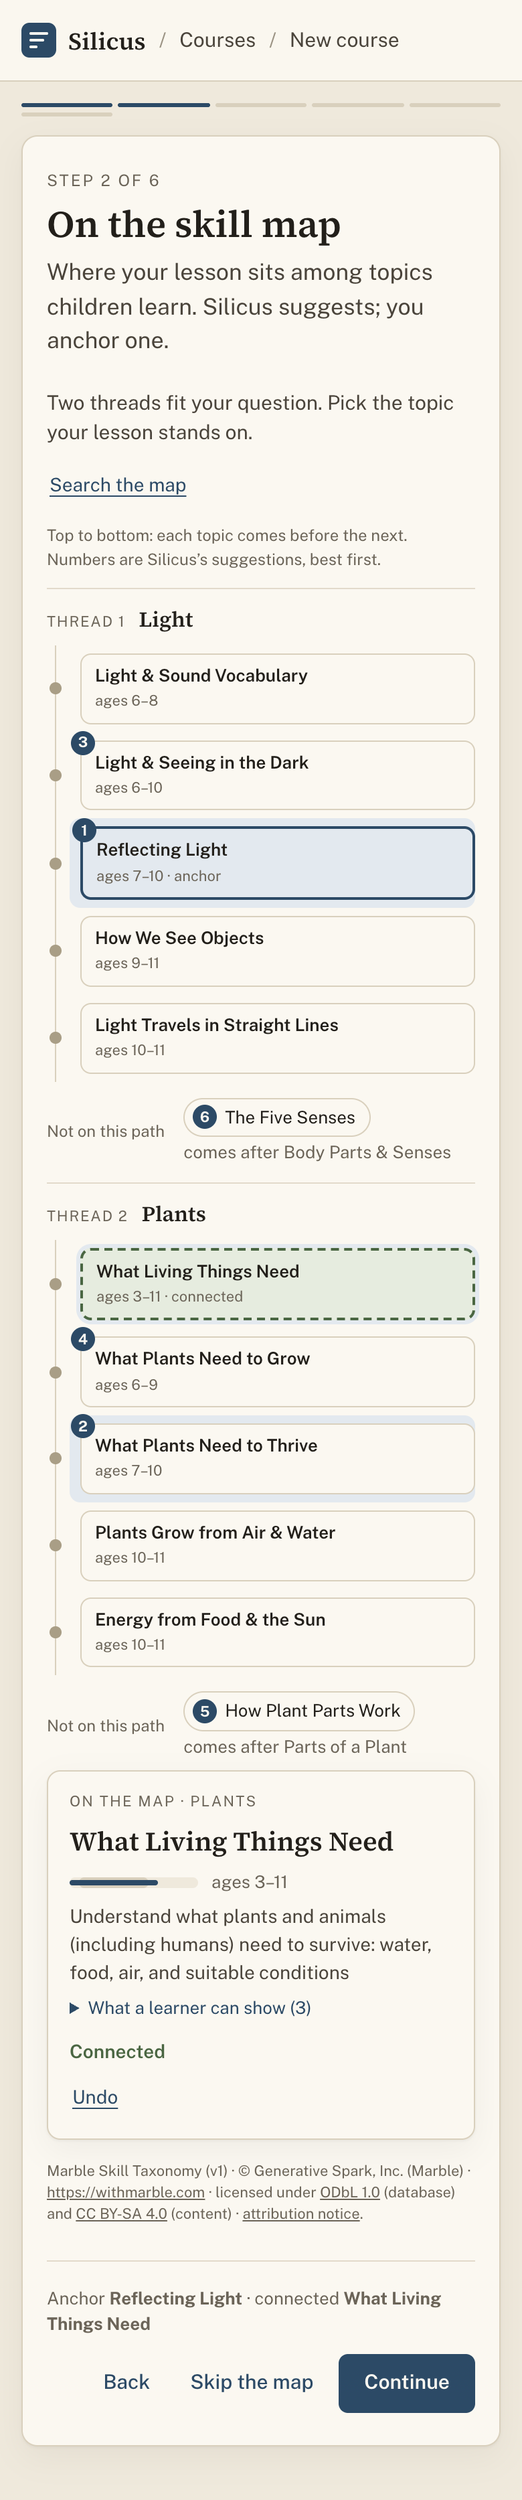
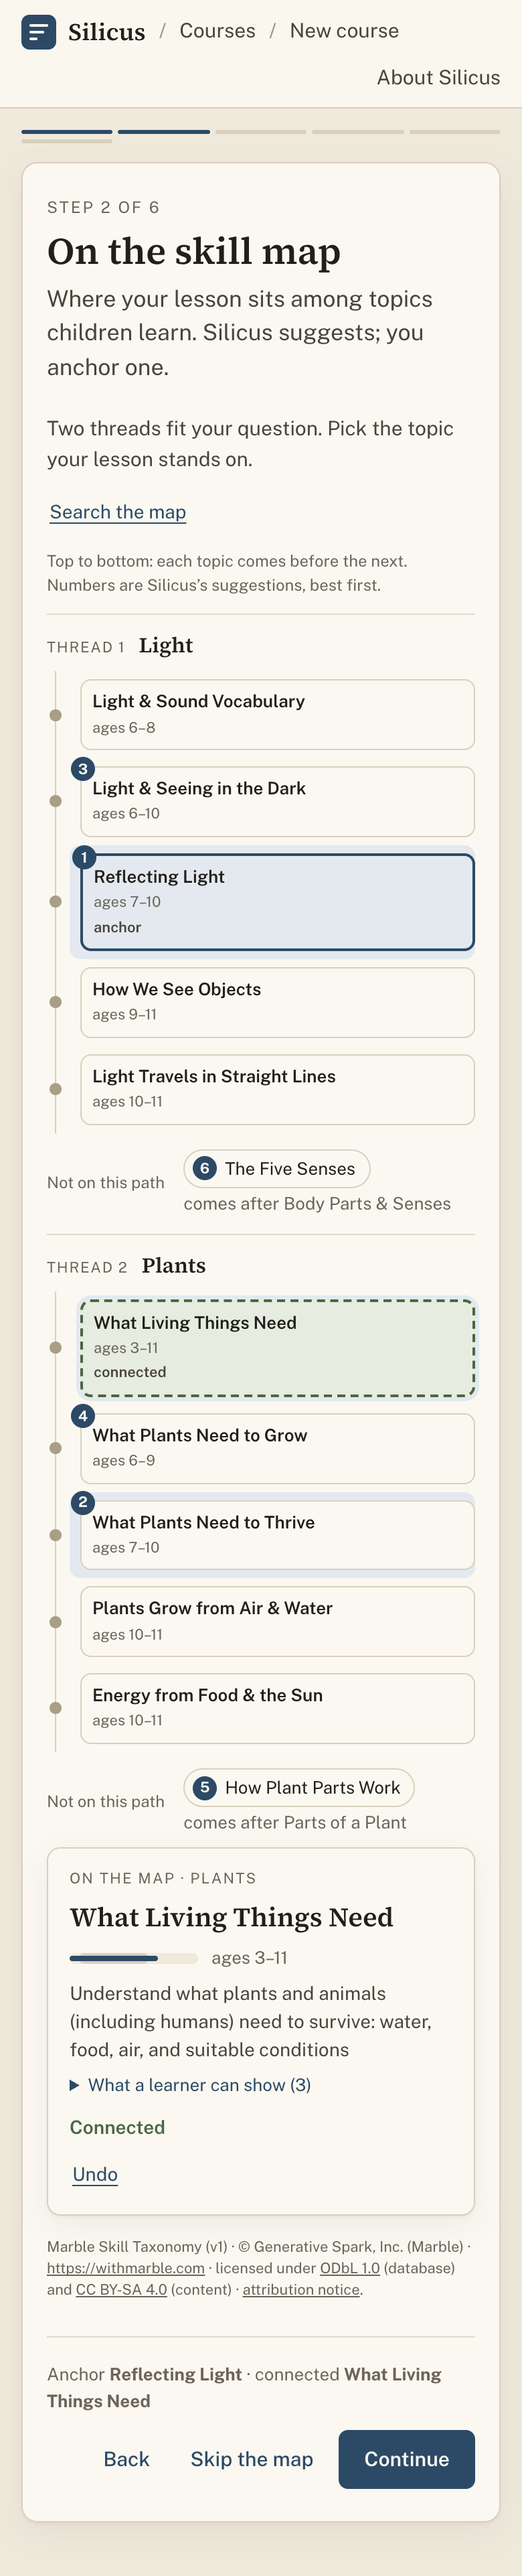
wip(K4): C6 map step: page 1120 px on step 2 and 8 px node padding so two-word Marble names stay on one line (text-wrap: balance kept); node state (anchor/connected) on its own line; non-breaking ' · ' joins (spine: title line, then 'Ages 4–10 · 45 min' unbreakable; footer '· connected'); skip-arc k

diff --git a/frontend/src/studio/NewCourseWizard.tsx b/frontend/src/studio/NewCourseWizard.tsx
@@ -70,6 +70,14 @@ export function briefAnswers(a: WizardAnswers): Record<string, string> {
   return out;
 }
 
+
+/** K4 (C6): a separator that never starts or ends a line: non-breaking spaces on both sides. */
+const SEP = "\u00a0·\u00a0";
+/** Keep a short part on one line (its spaces become non-breaking). */
+const glue = (s: string) => s.replace(/ /g, "\u00a0").replace(/–/g, "\u2060–\u2060");
+/** Join parts with SEP, dropping empty ones. */
+const keepJoin = (parts: string[]) => parts.filter(Boolean).join(SEP);
+
 export function NewCourseWizard() {
   const ai = useAiStatus();
   const [step, setStep] = useState<StepId | null>(null);
@@ -197,10 +205,12 @@ export function NewCourseWizard() {
     </nav>
   );
   function noteFor(id: StepId): string {
-    if (id === "course") return [a.title.trim(), aud.ages ? `Ages ${agesText(aud.ages).replace(/^ages /i, "")}` : "", `${lessonMinutes} min`].filter(Boolean).join(" · ");
+    // K4 (C6): no separator is left alone at a line break. The title is its own line; ages and length are one
+    // unbreakable line under it (non-breaking joins; .spineNote keeps the "\n").
+    if (id === "course") return [a.title.trim(), keepJoin([aud.ages ? glue(`Ages ${agesText(aud.ages).replace(/^ages /i, "")}`) : "", glue(`${lessonMinutes} min`)])].filter(Boolean).join("\n");
     if (id === "map") return mapChoice.skipped ? "Skipped" : anchor ? `${anchor.name}${mapChoice.connected ? ` + ${mapChoice.connected.name}` : ""}` : "";
     if (id === "sources") return count ? plural(count, "source") : "None yet";
-    if (id === "objectives") return [wrote ? plural(a.outcomes.split("\n").filter((l) => l.trim()).length, "of yours", "of yours") : null, a.fromSources && sourcesIn ? "Silicus proposes" : null].filter(Boolean).join(" · ");
+    if (id === "objectives") return [wrote ? plural(a.outcomes.split("\n").filter((l) => l.trim()).length, "of yours", "of yours") : null, a.fromSources && sourcesIn ? "Silicus proposes" : null].filter((x): x is string => !!x).map(glue).join(SEP);
     if (id === "ai") return ai.diagnosis.label;
     return "";
   }
@@ -306,7 +316,7 @@ export function NewCourseWizard() {
       </form>
     );
   } else if (step === "map" && aud.ages) {
-    const note = anchor ? <>Anchor <strong>{anchor.name}</strong>{mapChoice.connected ? <> · connected <strong>{mapChoice.connected.name}</strong></> : null}</> : "Anchor a topic, or skip the map.";
+    const note = anchor ? <>Anchor <strong>{anchor.name}</strong>{mapChoice.connected ? <>{SEP}connected <strong>{mapChoice.connected.name}</strong></> : null}</> : "Anchor a topic, or skip the map.";
     body = (
       <section className={`${w.sheet} ${w.sheetWide}`} aria-label="On the skill map">
         {head(kicker("map"), "On the skill map", "Where your lesson sits among topics children learn. Silicus suggests; you anchor one.")}
@@ -457,7 +467,7 @@ export function NewCourseWizard() {
   return (
     <>
       <TopBar crumbs={[{ label: "Courses", href: href.home }, { label: "New course" }]} />
-      <main className={w.page} data-welcome={step === "welcome" || step === null ? "true" : undefined}>
+      <main className={w.page} data-welcome={step === "welcome" || step === null ? "true" : undefined} data-map={step === "map" ? "true" : undefined}>
         {step && step !== "welcome" ? spine : null}
         {mobileStep}
         {body}

diff --git a/frontend/src/studio/MapStep.module.css b/frontend/src/studio/MapStep.module.css
@@ -38,7 +38,7 @@
 .cell[data-in]::before { content: ""; position: absolute; left: -14px; top: 50%; width: 14px; border-top: 1.5px solid var(--fn-line-dash); }
 .chain { position: relative; z-index: 0; }
 
-.node { position: relative; width: 100%; min-height: 68px; display: flex; flex-direction: column; justify-content: center; gap: 2px; text-align: left; padding: 8px 10px; border: 1px solid var(--fn-line); border-radius: 8px; background: var(--fn-sheet); color: var(--fn-ink); font: inherit; cursor: pointer; }
+.node { position: relative; width: 100%; min-height: 68px; display: flex; flex-direction: column; justify-content: center; gap: 2px; text-align: left; padding: 8px 8px; border: 1px solid var(--fn-line); border-radius: 8px; background: var(--fn-sheet); color: var(--fn-ink); font: inherit; cursor: pointer; }
 .node:hover { border-color: var(--fn-ink-muted); }
 .node:focus-visible { outline: 2px solid var(--fn-accent); outline-offset: 2px; }
 .node[data-sel] { border-color: var(--fn-accent); box-shadow: 0 0 0 3px var(--fn-accent-wash); }
@@ -47,6 +47,10 @@
 .node[data-out] { border-style: dashed; color: var(--fn-ink-muted); background: transparent; }
 .nodeName { font-size: 0.8125rem; font-weight: 600; line-height: 1.25; text-wrap: balance; overflow-wrap: break-word; hyphens: manual; }
 .nodeAges { font-size: 0.6875rem; color: var(--fn-ink-muted); }
+/* K4 (C6): the anchor / connected state on its own line (no "·" left at a line break). */
+.nodeState { font-size: 0.6875rem; font-weight: 600; color: var(--fn-ink-soft); }
+.legendArc { width: 28px; height: 10px; margin-right: 6px; vertical-align: -1px; overflow: visible; }
+.legendArc path { fill: none; stroke: var(--fn-line-dash); stroke-width: 1.25; }
 .badge { position: absolute; top: -8px; left: -8px; min-width: 18px; height: 18px; padding: 0 4px; border-radius: 999px; background: var(--fn-accent); color: var(--fn-sheet); font-size: 0.6875rem; font-weight: 700; display: inline-flex; align-items: center; justify-content: center; }
 
 .also { display: flex; flex-wrap: wrap; align-items: center; gap: 6px 14px; font-size: 0.8125rem; color: var(--fn-ink-soft); padding-top: 4px; }

diff --git a/frontend/src/studio/MapStep.tsx b/frontend/src/studio/MapStep.tsx
@@ -157,6 +157,13 @@ export function MapStep({ title, goal, ages, choice, onChoice }: {
           {narrow ? <p className={m.legend}>Top to bottom: each topic comes before the next. Numbers are Silicus’s suggestions, best first.</p> : (
             <div className={m.cols} aria-hidden="true">{COLUMNS.map((c, i) => <span key={c} data-best={i === 2 ? "true" : undefined}>{c}</span>)}</div>
           )}
+          {/* K4 (C6): the skip arc gets a key, so the thin line above a row is not a mystery. */}
+          {!narrow && shown.threads.some((th) => th.edges.some((e) => e.to - e.from > 1)) ? (
+            <p className={m.legend} data-arc-legend>
+              <svg className={m.legendArc} viewBox="0 0 28 10" aria-hidden="true"><path d="M 1 10 C 1 1 27 1 27 10" /></svg>
+              Arc over a row: must come first (skips a step)
+            </p>
+          ) : null}
           {shown.threads.map((th, ti) => (
             <section key={th.name} className={m.lane} aria-label={`Thread: ${th.name}`}>
               <h3 className={m.laneHead}><span className={m.laneNum}>{pick ? "" : `Thread ${ti + 1}`}</span>{th.name}</h3>
@@ -203,7 +210,9 @@ function Node({ t, r, sel, anchor, connected, onSelect }: { t: MarbleMapTopic; r
       data-sel={sel ? "true" : undefined} data-anchor={anchor ? "true" : undefined} data-connected={connected ? "true" : undefined} data-out={t.fits ? undefined : "true"}>
       {r ? <span className={m.badge} aria-label={`Suggestion ${r}`}>{r}</span> : null}
       <span className={m.nodeName}>{t.name}</span>
-      <span className={m.nodeAges}>ages {t.ageRangeStart}–{t.ageRangeEnd}{t.fits ? "" : " · later"}{anchor ? " · anchor" : connected ? " · connected" : ""}</span>
+      {/* K4 (C6): the state word sits on its own line, so no separator is left at a line break. */}
+      <span className={m.nodeAges}>{`ages\u00a0${t.ageRangeStart}\u2060–\u2060${t.ageRangeEnd}${t.fits ? "" : "\u00a0·\u00a0later"}`}</span>
+      {anchor || connected ? <span className={m.nodeState} data-node-state>{anchor ? "anchor" : "connected"}</span> : null}
     </button>
   );
 }

diff --git a/frontend/src/studio/Wizard.module.css b/frontend/src/studio/Wizard.module.css
@@ -5,6 +5,8 @@
   display: grid; grid-template-columns: 220px minmax(0, 1fr); column-gap: 56px; align-items: start;
 }
 
+/* K4 (C6): the map step takes a little more width so two-word topic names fit on one line in the five columns. */
+.page[data-map="true"] { max-width: 1120px; }
 .page[data-welcome="true"] { grid-template-columns: minmax(0, 1fr); justify-items: center; padding-top: 56px; }
 
 /* ---- the spine: the steps as a short table of contents ---- */
@@ -23,7 +25,7 @@
 .spineItem[aria-current="step"] { color: var(--fn-ink); font-weight: 600; }
 .spineItem[aria-current="step"]::before { background: var(--fn-accent); border-color: var(--fn-accent); }
 .spineNum { font-variant-numeric: tabular-nums; margin-right: 6px; }
-.spineNote { font-weight: 400; font-size: 0.75rem; color: var(--fn-ink-muted); overflow-wrap: anywhere; }
+.spineNote { font-weight: 400; font-size: 0.75rem; color: var(--fn-ink-muted); overflow-wrap: anywhere; white-space: pre-line; }
 .spinePromise { font-size: 0.75rem; color: var(--fn-ink-muted); line-height: 1.5; }
 .mobileStep { display: none; }
 
